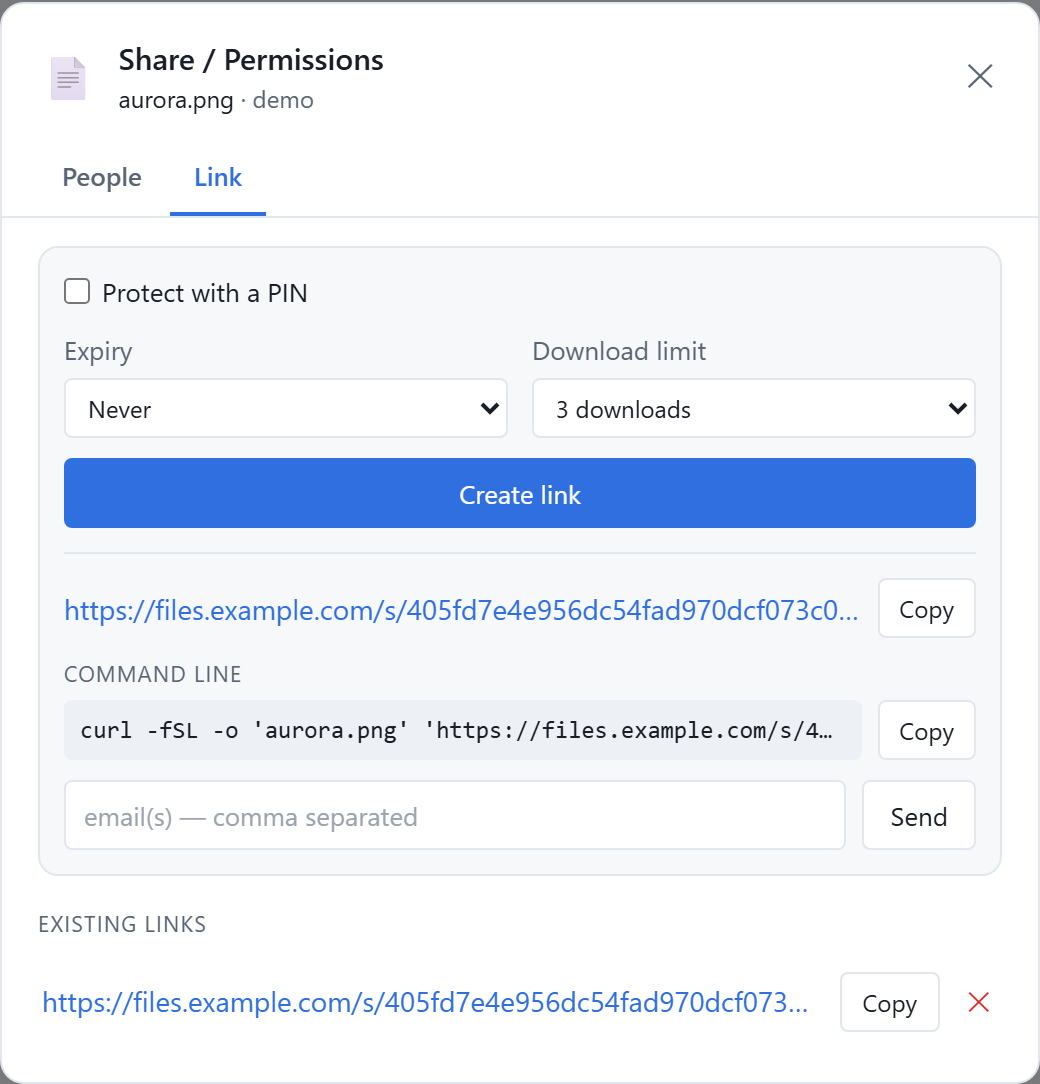
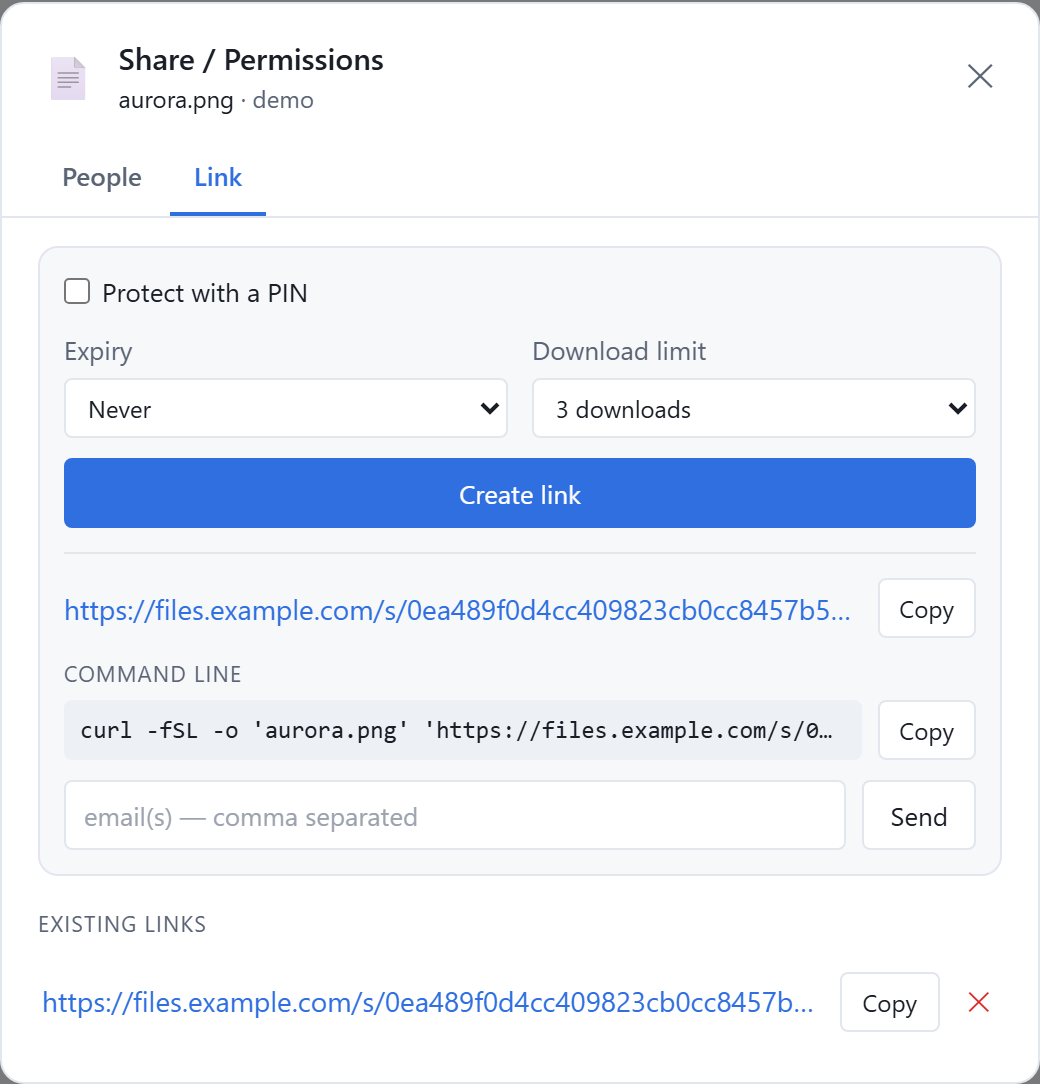
chore(release): v0.20.3 — mac desktop fixes + packages, Connections page dark mode
What ships (details in CHANGELOG.md):

- PR #9 (Berk): desktop pairing from an already-signed-in browser, arm64
  sync engine inside the arm64 app, and macOS packages (dmg + zip, ad-hoc
  sealed) built on a pinned macos-14 runner.
- The Connections panel no longer paints its own page ground; the API-tokens
  box uses real theme tokens; a test refuses phantom --fe-* names.
- docs-site release cron fixed (PATH under cron).

Release-checklist evidence:

- README / docs / web banner updated for macOS: "Windows/Linux" claims
  became "Windows/Linux/macOS" where true (README x3, docs/DESKTOP.md
  install table + first-launch note + updates note + keychain row,
  docs/index.md hero card, docs/README.md index); the web app's install
  banner offers filex-desktop-arm64.dmg to Mac visitors with the
  Open-Anyway hint instead of "no macOS build yet" (that string is gone
  from both locales). `filex mount` on macOS is still unsupported and the
  docs still say so.
- Screenshots retaken with `node e2e/shots/capture.mjs` from a binary
  built from this tree; connections-guide.png shows the fixed panel
  (no white box: page 250/250/250 == panel ground), all six English.
  ⚠ pnpm's `--filter='./x'` quoting is literal under Windows cmd — the
  first build:all silently built NOTHING ("No projects matched") and the
  first retake showed the old CSS; packages/web were rebuilt with unquoted
  filters, then embed synced, then the Go binary cross-built from WSL.
[…]

Changed region(s): [[0.4, 0.548, 0.8, 0.5784], [0.3692, 0.9133, 0.7692, 0.9437], [0.7692, 0.6697, 0.8, 0.7002]]

diff --git a/web/src/components/InstallPrompt.vue b/web/src/components/InstallPrompt.vue
@@ -49,8 +49,17 @@ const desktopDownloads = computed<{ label: string; hint: string; href: string }[
       },
     ];
   }
-  // No macOS build is produced yet. Saying so beats a button that 404s.
-  return [];
+  // ⚠ Apple Silicon only, and unsigned: the CI runner's arch is the artifact's
+  // arch (macos-14 = arm64), and there is no Developer ID yet, so the first
+  // launch is a Gatekeeper "Open Anyway" — the hint says so up front instead
+  // of letting the user find out from a dialog that reads like a virus alert.
+  return [
+    {
+      label: 'macOS (.dmg, Apple Silicon)',
+      hint: 'Unsigned — first launch: System Settings → Privacy & Security → Open Anyway',
+      href: `${DL}/filex-desktop-arm64.dmg`,
+    },
+  ];
 });
 
 const desktopLabel = computed(() =>
@@ -174,9 +183,6 @@ async function onInstall() {
           </span>
           <span aria-hidden="true" class="text-indigo-600 dark:text-indigo-400">↓</span>
         </a>
-        <p v-if="!desktopDownloads.length" class="text-xs text-zinc-500 dark:text-zinc-400">
-          {{ $t('install.desktopNoBuild') }}
-        </p>
         <a
           :href="RELEASES"
           target="_blank"

diff --git a/docs/DESKTOP.md b/docs/DESKTOP.md
@@ -1,7 +1,7 @@
 # filex desktop app
 
 The filex explorer in its own window, with folder sync that keeps running in the
-background. Windows and Linux today.
+background. Windows, Linux and macOS (Apple Silicon).
 
 It is the same explorer the web app and embedders use — not a separate,
 half-finished copy. What it adds on top: **several accounts at once**, **folders
@@ -20,6 +20,7 @@ panel, and the app links out to it in your browser.
 | Windows 10/11 (64-bit) | [`filex-desktop-x64.exe`](https://github.com/BRF-Tech/filex/releases/latest/download/filex-desktop-x64.exe) | Installer. Installs for **your user only** (`%LOCALAPPDATA%\Programs\filex`) — no administrator rights, and the app can replace its own files, which is what lets it update itself quietly. Adds a Start-menu entry. |
 | Linux (any, 64-bit) | [`filex-desktop-x86_64.AppImage`](https://github.com/BRF-Tech/filex/releases/latest/download/filex-desktop-x86_64.AppImage) | **Portable** — no installation. `chmod +x` and run. |
 | Debian / Ubuntu | [`filex-desktop-amd64.deb`](https://github.com/BRF-Tech/filex/releases/latest/download/filex-desktop-amd64.deb) | System-wide install, appears in your applications menu. |
+| macOS 12+ (Apple Silicon) | [`filex-desktop-arm64.dmg`](https://github.com/BRF-Tech/filex/releases/latest/download/filex-desktop-arm64.dmg) | Drag to *Applications*. **Unsigned** — see the first-launch note below. Intel Macs: no build; the web app works there. |
 
 ```bash
 # Debian / Ubuntu
@@ -36,8 +37,12 @@ chmod +x filex-desktop-x86_64.AppImage
 > Verify what you downloaded against `checksums.txt` on the release if you want
 > certainty.
 >
-> ⚠ **No macOS build.** Use the web app there; folder sync is Windows/Linux only
-> for now.
+> ⚠ **macOS, first launch.** The app is not signed with a Developer ID, only
+> *ad-hoc sealed*, so a downloaded copy is blocked once: open **System Settings →
+> Privacy & Security → Open Anyway** (older versions: right-click → *Open*).
+> Without that seal macOS 26 would not warn but *refuse* — "malware blocked and
+> moved to Trash", no override — which is why the seal is there. Signing +
+> notarization is the actual fix, and the same paid decision as on Windows.
 
 **Server requirement:** filex **v0.11.0 or newer**. The app signs in through two
 endpoints that older servers do not have, and will tell you so rather than
@@ -189,6 +194,11 @@ anyone who would rather not wait. `FILEX_NO_UPDATE=1` turns the whole thing off.
 > under `C:\Program Files` needs administrator rights to replace its own files,
 > so every update would stop at a UAC prompt — which is no longer possible: the
 > installer does not offer a machine-wide install.
+>
+> ⚠ **On macOS the app does not update itself yet.** The updater refuses to
+> swap an unsigned app (Squirrel.Mac checks the signature of what it installs),
+> so until the build is signed a new version means downloading the new `.dmg`
+> yourself — the feed and the *Install it now* button cannot do it for you there.
 
 ---
 
@@ -196,7 +206,7 @@ anyone who would rather not wait. `FILEX_NO_UPDATE=1` turns the whole thing off.
 
 | What | Where |
 |---|---|
-| Account tokens | Your OS keychain (Windows Credential Manager / libsecret). The app **refuses to store a token in plaintext** if the keychain is unavailable. |
+| Account tokens | Your OS keychain (Windows Credential Manager / macOS Keychain / libsecret). The app **refuses to store a token in plaintext** if the keychain is unavailable. |
 | Which folders are paired | `~/.filex/sync/pairs.json` — shared with the CLI |
 | Sync bookkeeping + local trash | `~/.filex/sync/` |
 | Window state, account list | The app's own config directory |

diff --git a/CHANGELOG.md b/CHANGELOG.md
@@ -7,6 +7,47 @@ and this project adheres to [Semantic Versioning](https://semver.org/spec/v2.0.0
 
 ## [Unreleased]
 
+## [0.20.3] - 2026-08-19
+
+Three desktop fixes that came out of a real macOS 26 (Apple Silicon)
+deployment (Berk, PR #9), one Connections-page fix, and — as a consequence of
+the first — **macOS packages** on the release for the first time.
+
+- **Desktop pairing died in a browser that was already signed in.** The
+  router's "signed-in users skip /login" redirect destroyed the query string
+  before the login view could stash `desktop_state`/`desktop_challenge`, so
+  the browser showed a file manager with no code and no error while the app
+  waited forever. The stash now happens in the router guard, ahead of the
+  first `await`; a failed hand-off keeps the overlay and says so instead of
+  disappearing.
+- **The embedded sync engine was x86_64 inside an arm64 app.** `fetch-cli.mjs`
+  defaulted `GOARCH` to `amd64`; every launch on Apple Silicon raised macOS
+  26's Rosetta deprecation alert. It now follows the host arch (an explicit
+  `GOARCH` still wins; CI's x64 runners are unaffected).
+- **macOS packages: `filex-desktop-arm64.dmg` + `.zip`**, built on a pinned
+  `macos-14` runner. Unsigned, but *ad-hoc sealed* by an `afterPack` hook: a
+  no-certificate electron-builder output is only linker-signed, and macOS 26
+  treats that as tampering ("malware blocked and moved to Trash", no override);
+  the deep ad-hoc re-seal turns it into the ordinary "unverified developer /
+  Open Anyway" dialog. Auto-update on macOS stays inert until the app carries a
+  Developer ID (Squirrel.Mac refuses to swap an unsigned app); the zip and
+  `latest-mac.yml` ship anyway so the feed is right the day it does. The docs,
+  the README and the web app's download banner now list macOS honestly —
+  Apple Silicon only, unsigned, first-launch step included.
+- **Connections page in dark mode: the panel painted its own page ground, and
+  five theme tokens did not exist.** `.fe-conn` set `background: var(--fe-bg)`
+  and drew a blue-black rectangle over the admin's zinc page (and a white one
+  over the light page) that ended where the panel ended; the API-tokens box
+  referenced `--fe-surface`, `--fe-muted`, `--fe-accent`, `--fe-surface-2` and
+  `--fe-mono`, none declared, so it had no ground, un-muted muted text and a
+  hardcoded-blue button next to a token-blue one. Fixed in the shared package
+  (web admin and the desktop app render the same component), 17 phantom token
+  uses corrected across core, and a test now refuses any `var(--fe-*)` that
+  `variables.css` does not declare.
+- docs site: the hourly release rebuild had failed silently since 08-11 (no
+  `PATH` under cron); it now sets its own, reports failure, and refuses to
+  publish an empty release list.
+
 ## [0.20.2] - 2026-08-17
 
 Packaging only — the server is identical to 0.20.1. It exists because the

diff --git a/README.md b/README.md
@@ -53,7 +53,7 @@ or **too big** (a groupware suite you deploy for the file tab). filex aims at th
 - **Real-time** — presence avatars (a profile picture set once on the account, shown for
   every client signed in as you) and live file updates over WebSocket, in the native UI
   *and* in embedded contexts (short-lived ticket auth, API-polling fallback).
-- **On your desktop too** — the same explorer ships as a Windows/Linux app that keeps
+- **On your desktop too** — the same explorer ships as a Windows/Linux/macOS app that keeps
   local folders in step with the server from the tray, updates itself, and holds several
   accounts (or tenants) side by side. Headless machines get the same engine as
   `filex sync` / `filex client`.
@@ -105,7 +105,7 @@ or **too big** (a groupware suite you deploy for the file tab). filex aims at th
                     (vanilla, Angular,
                     Svelte, Solid, …)
 
-   Same API, no server plugins:  desktop app (Electron, Windows/Linux)
+   Same API, no server plugins:  desktop app (Electron, Windows/Linux/macOS)
                                  CLI client (filex client · filex sync)
 ```
 
@@ -249,7 +249,7 @@ Details: [docs/MCP.md](docs/MCP.md).
 - **Real-time collaboration** — presence bar with live avatars + focus, instant file-change updates over WebSocket, polling fallback.
 - **RBAC + item permissions** — roles, per-file/folder grants with inheritance, share invites by e-mail (SMTP), grant-aware search and listings.
 - **Sharing** — public links with PIN, expiry and max-downloads; folder links stream as ZIP (cached + pre-warmed); **file-request** upload links for inbound drops; ShareX-compatible upload endpoint.
-- **Desktop app + folder sync** — Windows/Linux app: tray-resident two-way sync, several accounts at once, self-updating ([docs/DESKTOP.md](docs/DESKTOP.md), [docs/SYNC.md](docs/SYNC.md)).
+- **Desktop app + folder sync** — Windows/Linux/macOS app: tray-resident two-way sync, several accounts at once, self-updating (macOS: unsigned build, updates by re-download until it is signed) ([docs/DESKTOP.md](docs/DESKTOP.md), [docs/SYNC.md](docs/SYNC.md)).
 - **Trash & version history** — deletes are reversible within a retention window, writes keep snapshots; both live in the storage you already mounted ([docs/TRASH-VERSIONING.md](docs/TRASH-VERSIONING.md)).
 - **Upload protection** — optional ClamAV scanning plus trash/version retention behind one admin surface ([docs/PROTECTION.md](docs/PROTECTION.md)).
 - **E2E encrypted folders** — client-side WebCrypto; the server stores ciphertext and never receives a key ([docs/E2E-ENCRYPTION.md](docs/E2E-ENCRYPTION.md)).

diff --git a/docs/README.md b/docs/README.md
@@ -46,7 +46,7 @@ New here? Start with [Installation](INSTALLATION.md), then add a storage
 
 ## Features
 
-- [Desktop app](DESKTOP.md) — Windows/Linux app: multiple accounts, background sync
+- [Desktop app](DESKTOP.md) — Windows/Linux/macOS app: multiple accounts, background sync
 - [Folder sync](SYNC.md) — how a folder on your PC is kept in step with the server
 - [Uploads](UPLOADS.md) — the staged, resumable upload path: chunked, works on
   every driver, survives a dropped connection

diff --git a/docs/index.md b/docs/index.md
@@ -27,7 +27,7 @@ hero:
 features:
   - icon: 🖥
     title: Desktop app
-    details: The same explorer in its own window on Windows and Linux — several accounts at once, and sync that keeps running when the window is closed.
+    details: The same explorer in its own window on Windows, Linux and macOS — several accounts at once, and sync that keeps running when the window is closed.
     link: /DESKTOP
     linkText: Desktop docs
   - icon: 🔁
